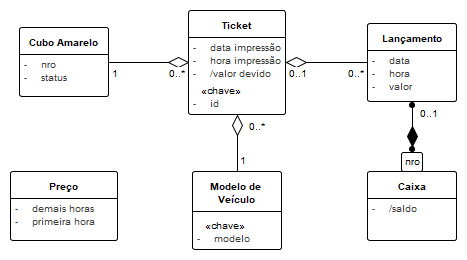
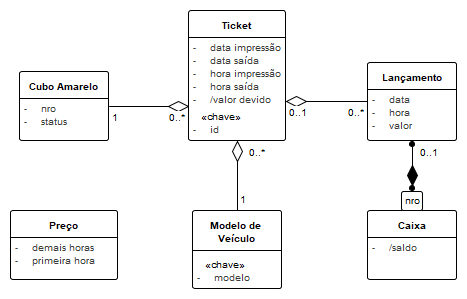
Add files via upload

diff --git a/EARoot/EA1/EA4/EA63.htm b/EARoot/EA1/EA4/EA63.htm
@@ -2,7 +2,7 @@
 <html xmlns="http://www.w3.org/1999/xhtml">
 <head>
 <meta http-equiv="Content-Type" content="text/html; charset=UTF-8" />
-<title>4.	(2,0) Apresente o Modelo Conceitual correspondente aos Depósitos de Dados utilizados nos DFDs Essenciais obtidos na Questão 1.::Ticket</title>
+<title>Ticket</title>
 <link href="../../../css/ea.css" rel="stylesheet" type="text/css" />
 <script>
 function initPage(src) {	
@@ -42,7 +42,7 @@ function nameClassifier(name, separator)
 		</tr>
 		<tr>
 			<td class="ObjectDetailsTopic">Modified:</td>
-			<td class="ObjectDetailsValue">30/05/2019 13:34:50</td>
+			<td class="ObjectDetailsValue">30/05/2019 16:17:43</td>
 		</tr>
 		<tr style="height: 10px"><td colspan="2"></td></tr>
 		<tr>
@@ -155,7 +155,7 @@ function nameClassifier(name, separator)
 				</td>
 			</tr>			<tr>
 				<td width="100%" class="TableRow">
-					<i>Private int</i><br /><strong>&nbsp;&nbsp;hora impressão</strong>
+					<i>Private int</i><br /><strong>&nbsp;&nbsp;data saída</strong>
 				</td>
 			</tr>
 			<tr>
@@ -203,7 +203,7 @@ function nameClassifier(name, separator)
 				</td>
 			</tr>			<tr>
 				<td width="100%" class="TableRow">
-					<i>Private int</i><br /><strong>&nbsp;&nbsp;id</strong>
+					<i>Private int</i><br /><strong>&nbsp;&nbsp;hora impressão</strong>
 				</td>
 			</tr>
 			<tr>
@@ -221,7 +221,7 @@ function nameClassifier(name, separator)
 						</tr>
 						<tr id="DetailsImageAttributes16_02" style="display: none;">
 							<td width="75"><i>Stereotype: </i></td>
-							<td>&lt;&lt;chave&gt;&gt;</td>
+							<td></td>
 						</tr>
 						<tr id="DetailsImageAttributes16_03" style="display: none;">
 							<td width="75"><i>Ordered: </i></td>
@@ -251,7 +251,7 @@ function nameClassifier(name, separator)
 				</td>
 			</tr>			<tr>
 				<td width="100%" class="TableRow">
-					<i>Private </i><br /><strong>&nbsp;&nbsp;valor devido</strong>
+					<i>Private int</i><br /><strong>&nbsp;&nbsp;hora saída</strong>
 				</td>
 			</tr>
 			<tr>
@@ -285,9 +285,105 @@ function nameClassifier(name, separator)
 						</tr>
 						<tr id="DetailsImageAttributes17_06" style="display: none;">
 							<td width="75"><i>Derived: </i></td>
-							<td>True</td>
+							<td>False</td>
 						</tr>
 							<tr id="DetailsImageAttributes17_07" style="display: none;">
+							<td width="75"><i>IsID: </i></td>
+						<td>False</td>
+						</tr>
+					</table>
+					
+					
+						&nbsp;
+						
+				</td>
+			</tr>			<tr>
+				<td width="100%" class="TableRow">
+					<i>Private int</i><br /><strong>&nbsp;&nbsp;id</strong>
+				</td>
+			</tr>
+			<tr>
+				<td class="TableRowBottomDashed"  colspan="1">										
+					<a href="#" onclick="parent.toggleData('DetailsImageAttributes18')" style="text-decoration: none; color: #000000;"><img src="../../../images/plus03.gif" align="absmiddle" id="DetailsImageAttributes18" border="0" />Details:</a>
+					<table border="0" cellspacing="0" cellpadding="0" class="Table" style="padding: 4px 18px;">
+					
+						<tr id="DetailsImageAttributes18_00" style="display: none;">
+							<td width="75"><i>Alias:</i></td>
+							<td></td>
+						</tr>
+						<tr id="DetailsImageAttributes18_01" style="display: none;">
+							<td width="75"><i>Initial:</i></td>
+							<td></td>
+						</tr>
+						<tr id="DetailsImageAttributes18_02" style="display: none;">
+							<td width="75"><i>Stereotype: </i></td>
+							<td>&lt;&lt;chave&gt;&gt;</td>
+						</tr>
+						<tr id="DetailsImageAttributes18_03" style="display: none;">
+							<td width="75"><i>Ordered: </i></td>
+							<td></td>
+						</tr>
+						<tr id="DetailsImageAttributes18_04" style="display: none;">
+							<td width="75"><i>Range: </i></td>
+							<td></td>
+						</tr>
+						<tr id="DetailsImageAttributes18_05" style="display: none;">
+							<td width="75"><i>Transient: </i></td>
+							<td>False</td>
+						</tr>
+						<tr id="DetailsImageAttributes18_06" style="display: none;">
+							<td width="75"><i>Derived: </i></td>
+							<td>False</td>
+						</tr>
+							<tr id="DetailsImageAttributes18_07" style="display: none;">
+							<td width="75"><i>IsID: </i></td>
+						<td>False</td>
+						</tr>
+					</table>
+					
+					
+						&nbsp;
+						
+				</td>
+			</tr>			<tr>
+				<td width="100%" class="TableRow">
+					<i>Private </i><br /><strong>&nbsp;&nbsp;valor devido</strong>
+				</td>
+			</tr>
+			<tr>
+				<td class="TableRowBottomDashed"  colspan="1">										
+					<a href="#" onclick="parent.toggleData('DetailsImageAttributes19')" style="text-decoration: none; color: #000000;"><img src="../../../images/plus03.gif" align="absmiddle" id="DetailsImageAttributes19" border="0" />Details:</a>
+					<table border="0" cellspacing="0" cellpadding="0" class="Table" style="padding: 4px 18px;">
+					
+						<tr id="DetailsImageAttributes19_00" style="display: none;">
+							<td width="75"><i>Alias:</i></td>
+							<td></td>
+						</tr>
+						<tr id="DetailsImageAttributes19_01" style="display: none;">
+							<td width="75"><i>Initial:</i></td>
+							<td></td>
+						</tr>
+						<tr id="DetailsImageAttributes19_02" style="display: none;">
+							<td width="75"><i>Stereotype: </i></td>
+							<td></td>
+						</tr>
+						<tr id="DetailsImageAttributes19_03" style="display: none;">
+							<td width="75"><i>Ordered: </i></td>
+							<td></td>
+						</tr>
+						<tr id="DetailsImageAttributes19_04" style="display: none;">
+							<td width="75"><i>Range: </i></td>
+							<td></td>
+						</tr>
+						<tr id="DetailsImageAttributes19_05" style="display: none;">
+							<td width="75"><i>Transient: </i></td>
+							<td>False</td>
+						</tr>
+						<tr id="DetailsImageAttributes19_06" style="display: none;">
+							<td width="75"><i>Derived: </i></td>
+							<td>True</td>
+						</tr>
+							<tr id="DetailsImageAttributes19_07" style="display: none;">
 							<td width="75"><i>IsID: </i></td>
 						<td>False</td>
 						</tr>
@@ -323,8 +419,8 @@ function nameClassifier(name, separator)
 				</tr>
 				<tr>
 					<td class="TableRowBottomDashed"  colspan="3">
-						<div class="DetailsDivParent"><img src="../../../images/minus03.gif" align="absmiddle" id="DetailsImageLink18" onclick="parent.toggleDiv('detailsDIVLink18','DetailsImageLink18')" />Details:
-							<div id="detailsDIVLink18" class="DetailsDiv" >
+						<div class="DetailsDivParent"><img src="../../../images/minus03.gif" align="absmiddle" id="DetailsImageLink20" onclick="parent.toggleDiv('detailsDIVLink20','DetailsImageLink20')" />Details:
+							<div id="detailsDIVLink20" class="DetailsDiv" >
 							&nbsp;
 							</div>
 						</div>
@@ -346,8 +442,8 @@ function nameClassifier(name, separator)
 				</tr>
 				<tr>
 					<td class="TableRowBottomDashed"  colspan="3">
-						<div class="DetailsDivParent"><img src="../../../images/minus03.gif" align="absmiddle" id="DetailsImageLink19" onclick="parent.toggleDiv('detailsDIVLink19','DetailsImageLink19')" />Details:
-							<div id="detailsDIVLink19" class="DetailsDiv" >
+						<div class="DetailsDivParent"><img src="../../../images/minus03.gif" align="absmiddle" id="DetailsImageLink21" onclick="parent.toggleDiv('detailsDIVLink21','DetailsImageLink21')" />Details:
+							<div id="detailsDIVLink21" class="DetailsDiv" >
 							&nbsp;
 							</div>
 						</div>
@@ -369,8 +465,8 @@ function nameClassifier(name, separator)
 				</tr>
 				<tr>
 					<td class="TableRowBottomDashed"  colspan="3">
-						<div class="DetailsDivParent"><img src="../../../images/minus03.gif" align="absmiddle" id="DetailsImageLink20" onclick="parent.toggleDiv('detailsDIVLink20','DetailsImageLink20')" />Details:
-							<div id="detailsDIVLink20" class="DetailsDiv" >
+						<div class="DetailsDivParent"><img src="../../../images/minus03.gif" align="absmiddle" id="DetailsImageLink22" onclick="parent.toggleDiv('detailsDIVLink22','DetailsImageLink22')" />Details:
+							<div id="detailsDIVLink22" class="DetailsDiv" >
 							&nbsp;
 							</div>
 						</div>

diff --git a/EARoot/EA1/EA4/EA55.htm b/EARoot/EA1/EA4/EA55.htm
@@ -36,12 +36,12 @@ function nameClassifier(name, separator)
 <img src="EA56.png" usemap="#EA56" border="0" />
 
 <MAP NAME="EA56">
-<area shape="rect" coords="367,23,457,102" href="EA60.htm" target="_self">
-<area shape="rect" coords="192,171,282,250" href="EA61.htm" target="_self">
-<area shape="rect" coords="188,10,286,115" href="EA63.htm" target="_self">
-<area shape="rect" coords="19,27,109,97" href="EA59.htm" target="_self">
-<area shape="rect" coords="367,171,457,241" href="EA58.htm" target="_self">
-<area shape="rect" coords="10,171,118,241" href="EA62.htm" target="_self">
+<area shape="rect" coords="367,62,457,141" href="EA60.htm" target="_self">
+<area shape="rect" coords="192,210,282,289" href="EA61.htm" target="_self">
+<area shape="rect" coords="188,10,286,141" href="EA63.htm" target="_self">
+<area shape="rect" coords="19,71,109,141" href="EA59.htm" target="_self">
+<area shape="rect" coords="367,210,457,280" href="EA58.htm" target="_self">
+<area shape="rect" coords="10,210,118,280" href="EA62.htm" target="_self">
 </MAP>
 
 	<div class="ObjectTitle">4.	(2,0) Apresente o Modelo Conceitual correspondente aos Depósitos de Dados utilizados nos DFDs Essenciais obtidos na questão 1. : Class diagram</div>
@@ -52,7 +52,7 @@ function nameClassifier(name, separator)
 		</tr>
 		<tr>
 			<td width="15%" class="ObjectDetailsTopic">Modified:</td>
-			<td width="85%" class="ObjectDetailsValue">30/05/2019 13:38:52</td>
+			<td width="85%" class="ObjectDetailsValue">30/05/2019 16:17:43</td>
 		</tr>
 		<tr style="padding-top: 10px;">
 			<td width="15%" class="ObjectDetailsTopic"><img src="../../../images/plus03.gif" align="absmiddle" id="proj" onclick="parent.toggleData(this.id)" />Project:</td>

diff --git a/EARoot/EA1/EA5/EA69.htm b/EARoot/EA1/EA5/EA69.htm
@@ -115,8 +115,8 @@ function nameClassifier(name, separator)
 				</tr>
 				<tr>
 					<td class="TableRowBottomDashed"  colspan="2">
-						<div class="DetailsDivParent"><img src="../../../images/minus03.gif" align="absmiddle" id="DetailsImageLinkFlow22" onclick="parent.toggleDiv('detailsDIVLinkFlow22', 'DetailsImageLinkFlow22')" />Details:
-							<div id="detailsDIVLinkFlow22" class="DetailsDiv" >
+						<div class="DetailsDivParent"><img src="../../../images/minus03.gif" align="absmiddle" id="DetailsImageLinkFlow24" onclick="parent.toggleDiv('detailsDIVLinkFlow24', 'DetailsImageLinkFlow24')" />Details:
+							<div id="detailsDIVLinkFlow24" class="DetailsDiv" >
 							&nbsp;
 							</div>
 						</div>
@@ -139,8 +139,8 @@ function nameClassifier(name, separator)
 				</tr>
 				<tr>
 					<td class="TableRowBottomDashed"  colspan="2">
-						<div class="DetailsDivParent"><img src="../../../images/minus03.gif" align="absmiddle" id="DetailsImageLinkFlow23" onclick="parent.toggleDiv('detailsDIVLinkFlow23', 'DetailsImageLinkFlow23')" />Details:
-							<div id="detailsDIVLinkFlow23" class="DetailsDiv" >
+						<div class="DetailsDivParent"><img src="../../../images/minus03.gif" align="absmiddle" id="DetailsImageLinkFlow25" onclick="parent.toggleDiv('detailsDIVLinkFlow25', 'DetailsImageLinkFlow25')" />Details:
+							<div id="detailsDIVLinkFlow25" class="DetailsDiv" >
 							&nbsp;
 							</div>
 						</div>

diff --git a/EARoot/EA1/EA5/EA73.htm b/EARoot/EA1/EA5/EA73.htm
@@ -115,8 +115,8 @@ function nameClassifier(name, separator)
 				</tr>
 				<tr>
 					<td class="TableRowBottomDashed"  colspan="2">
-						<div class="DetailsDivParent"><img src="../../../images/minus03.gif" align="absmiddle" id="DetailsImageLinkFlow24" onclick="parent.toggleDiv('detailsDIVLinkFlow24', 'DetailsImageLinkFlow24')" />Details:
-							<div id="detailsDIVLinkFlow24" class="DetailsDiv" >
+						<div class="DetailsDivParent"><img src="../../../images/minus03.gif" align="absmiddle" id="DetailsImageLinkFlow26" onclick="parent.toggleDiv('detailsDIVLinkFlow26', 'DetailsImageLinkFlow26')" />Details:
+							<div id="detailsDIVLinkFlow26" class="DetailsDiv" >
 							&nbsp;
 							</div>
 						</div>
@@ -139,8 +139,8 @@ function nameClassifier(name, separator)
 				</tr>
 				<tr>
 					<td class="TableRowBottomDashed"  colspan="2">
-						<div class="DetailsDivParent"><img src="../../../images/minus03.gif" align="absmiddle" id="DetailsImageLinkFlow25" onclick="parent.toggleDiv('detailsDIVLinkFlow25', 'DetailsImageLinkFlow25')" />Details:
-							<div id="detailsDIVLinkFlow25" class="DetailsDiv" >
+						<div class="DetailsDivParent"><img src="../../../images/minus03.gif" align="absmiddle" id="DetailsImageLinkFlow27" onclick="parent.toggleDiv('detailsDIVLinkFlow27', 'DetailsImageLinkFlow27')" />Details:
+							<div id="detailsDIVLinkFlow27" class="DetailsDiv" >
 							&nbsp;
 							</div>
 						</div>

diff --git a/EARoot/EA1/EA4/EA61.htm b/EARoot/EA1/EA4/EA61.htm
@@ -2,7 +2,7 @@
 <html xmlns="http://www.w3.org/1999/xhtml">
 <head>
 <meta http-equiv="Content-Type" content="text/html; charset=UTF-8" />
-<title>4.	(2,0) Apresente o Modelo Conceitual correspondente aos Depósitos de Dados utilizados nos DFDs Essenciais obtidos na Questão 1.::Modelo de Veículo</title>
+<title>Modelo de Veículo</title>
 <link href="../../../css/ea.css" rel="stylesheet" type="text/css" />
 <script>
 function initPage(src) {	
@@ -42,7 +42,7 @@ function nameClassifier(name, separator)
 		</tr>
 		<tr>
 			<td class="ObjectDetailsTopic">Modified:</td>
-			<td class="ObjectDetailsValue">30/05/2019 13:38:52</td>
+			<td class="ObjectDetailsValue">30/05/2019 16:17:43</td>
 		</tr>
 		<tr style="height: 10px"><td colspan="2"></td></tr>
 		<tr>

diff --git a/EARoot/EA1/EA4/EA59.htm b/EARoot/EA1/EA4/EA59.htm
@@ -2,7 +2,7 @@
 <html xmlns="http://www.w3.org/1999/xhtml">
 <head>
 <meta http-equiv="Content-Type" content="text/html; charset=UTF-8" />
-<title>4.	(2,0) Apresente o Modelo Conceitual correspondente aos Depósitos de Dados utilizados nos DFDs Essenciais obtidos na Questão 1.::Cubo Amarelo</title>
+<title>Cubo Amarelo</title>
 <link href="../../../css/ea.css" rel="stylesheet" type="text/css" />
 <script>
 function initPage(src) {	
@@ -42,7 +42,7 @@ function nameClassifier(name, separator)
 		</tr>
 		<tr>
 			<td class="ObjectDetailsTopic">Modified:</td>
-			<td class="ObjectDetailsValue">30/05/2019 13:34:50</td>
+			<td class="ObjectDetailsValue">30/05/2019 16:17:43</td>
 		</tr>
 		<tr style="height: 10px"><td colspan="2"></td></tr>
 		<tr>

diff --git a/EARoot/EA1/EA4/EA60.htm b/EARoot/EA1/EA4/EA60.htm
@@ -2,7 +2,7 @@
 <html xmlns="http://www.w3.org/1999/xhtml">
 <head>
 <meta http-equiv="Content-Type" content="text/html; charset=UTF-8" />
-<title>4.	(2,0) Apresente o Modelo Conceitual correspondente aos Depósitos de Dados utilizados nos DFDs Essenciais obtidos na Questão 1.::Lançamento</title>
+<title>Lançamento</title>
 <link href="../../../css/ea.css" rel="stylesheet" type="text/css" />
 <script>
 function initPage(src) {	
@@ -42,7 +42,7 @@ function nameClassifier(name, separator)
 		</tr>
 		<tr>
 			<td class="ObjectDetailsTopic">Modified:</td>
-			<td class="ObjectDetailsValue">30/05/2019 13:38:52</td>
+			<td class="ObjectDetailsValue">30/05/2019 16:17:43</td>
 		</tr>
 		<tr style="height: 10px"><td colspan="2"></td></tr>
 		<tr>

diff --git a/EARoot/EA1/EA4/EA62.htm b/EARoot/EA1/EA4/EA62.htm
@@ -2,7 +2,7 @@
 <html xmlns="http://www.w3.org/1999/xhtml">
 <head>
 <meta http-equiv="Content-Type" content="text/html; charset=UTF-8" />
-<title>4.	(2,0) Apresente o Modelo Conceitual correspondente aos Depósitos de Dados utilizados nos DFDs Essenciais obtidos na Questão 1.::Preço</title>
+<title>Preço</title>
 <link href="../../../css/ea.css" rel="stylesheet" type="text/css" />
 <script>
 function initPage(src) {	
@@ -42,7 +42,7 @@ function nameClassifier(name, separator)
 		</tr>
 		<tr>
 			<td class="ObjectDetailsTopic">Modified:</td>
-			<td class="ObjectDetailsValue">30/05/2019 13:38:52</td>
+			<td class="ObjectDetailsValue">30/05/2019 16:17:43</td>
 		</tr>
 		<tr style="height: 10px"><td colspan="2"></td></tr>
 		<tr>

diff --git a/EARoot/EA1/EA4/EA58.htm b/EARoot/EA1/EA4/EA58.htm
@@ -2,7 +2,7 @@
 <html xmlns="http://www.w3.org/1999/xhtml">
 <head>
 <meta http-equiv="Content-Type" content="text/html; charset=UTF-8" />
-<title>4.	(2,0) Apresente o Modelo Conceitual correspondente aos Depósitos de Dados utilizados nos DFDs Essenciais obtidos na Questão 1.::Caixa</title>
+<title>Caixa</title>
 <link href="../../../css/ea.css" rel="stylesheet" type="text/css" />
 <script>
 function initPage(src) {	
@@ -42,7 +42,7 @@ function nameClassifier(name, separator)
 		</tr>
 		<tr>
 			<td class="ObjectDetailsTopic">Modified:</td>
-			<td class="ObjectDetailsValue">30/05/2019 13:38:52</td>
+			<td class="ObjectDetailsValue">30/05/2019 16:17:43</td>
 		</tr>
 		<tr style="height: 10px"><td colspan="2"></td></tr>
 		<tr>

diff --git a/EARoot/EA1/EA5/EA67.htm b/EARoot/EA1/EA5/EA67.htm
@@ -114,8 +114,8 @@ function nameClassifier(name, separator)
 				</tr>
 				<tr>
 					<td class="TableRowBottomDashed"  colspan="2">
-						<div class="DetailsDivParent"><img src="../../../images/minus03.gif" align="absmiddle" id="DetailsImageLinkFlow21" onclick="parent.toggleDiv('detailsDIVLinkFlow21', 'DetailsImageLinkFlow21')" />Details:
-							<div id="detailsDIVLinkFlow21" class="DetailsDiv" >
+						<div class="DetailsDivParent"><img src="../../../images/minus03.gif" align="absmiddle" id="DetailsImageLinkFlow23" onclick="parent.toggleDiv('detailsDIVLinkFlow23', 'DetailsImageLinkFlow23')" />Details:
+							<div id="detailsDIVLinkFlow23" class="DetailsDiv" >
 							&nbsp;
 							</div>
 						</div>

diff --git a/EARoot/EA1/EA5/EA74.htm b/EARoot/EA1/EA5/EA74.htm
@@ -114,8 +114,8 @@ function nameClassifier(name, separator)
 				</tr>
 				<tr>
 					<td class="TableRowBottomDashed"  colspan="2">
-						<div class="DetailsDivParent"><img src="../../../images/minus03.gif" align="absmiddle" id="DetailsImageLinkFlow26" onclick="parent.toggleDiv('detailsDIVLinkFlow26', 'DetailsImageLinkFlow26')" />Details:
-							<div id="detailsDIVLinkFlow26" class="DetailsDiv" >
+						<div class="DetailsDivParent"><img src="../../../images/minus03.gif" align="absmiddle" id="DetailsImageLinkFlow28" onclick="parent.toggleDiv('detailsDIVLinkFlow28', 'DetailsImageLinkFlow28')" />Details:
+							<div id="detailsDIVLinkFlow28" class="DetailsDiv" >
 							&nbsp;
 							</div>
 						</div>
